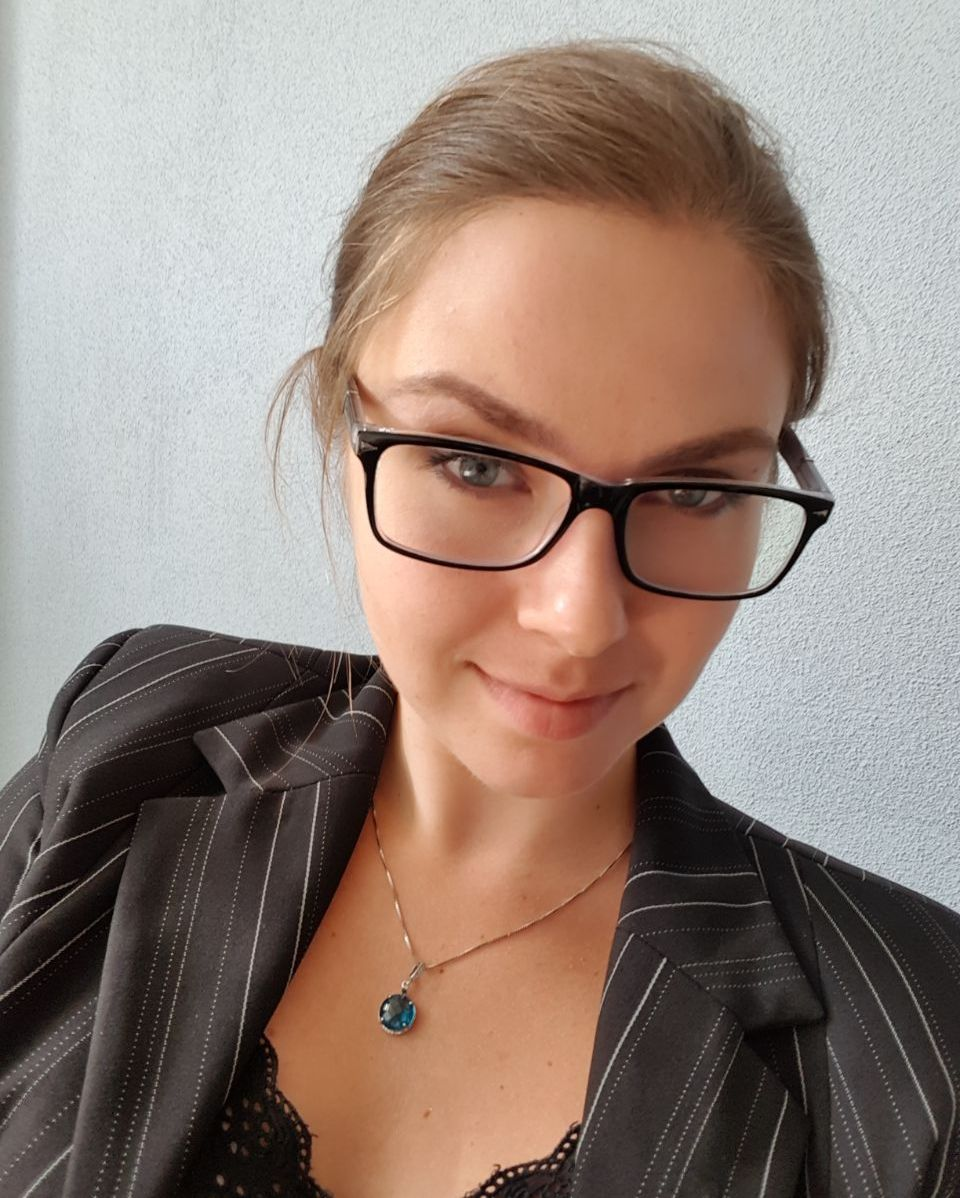
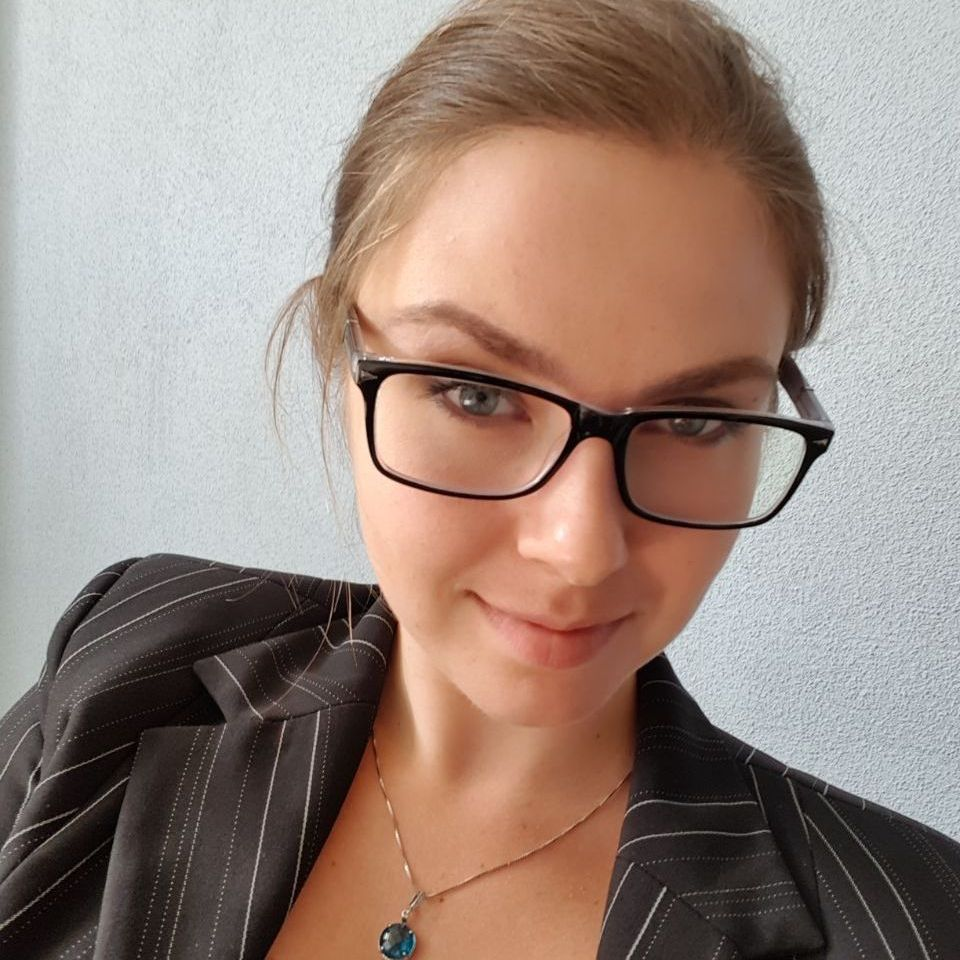
feat: add new information

diff --git a/index.html b/index.html
@@ -10,51 +10,77 @@
 <body>
     <header class="header">
         <div class="me">
-        <h1 class="title">Anastasiya Solobai</h1>
+            <h1 class="title">Anastasiya Solobai</h1>
             <nav class="contact">
-                <ul class="mycontact">
-                    <li>Phone: +375 29 277-12-20</li>
-                    <li>E-mail: nastasiasolo@gamil.com</li>
-                    <li>GitHub: catacore</li>
-                    <li>Telegram</li>
+                <ul class="mycontacts">
+                    <li>Phone:<a href="tel:+375 29 277-12-20"> +375 29 277-12-20</a></li>
+                    <li>E-mail:<a href="nastasiasolo@gamil.com">nastasiasolo@gamil.com</a></li>
+                    <li>GitHub:catacore</li>
+                    <li>Discord:catacore#2096</li>
+                    <li> <a href="https://www.google.com/maps/place/%D0%92%D1%80%D0%BE%D1%86%D0%BB%D0%B0%D0%B2/@51.1267432,16.7116858,10z/data=!3m1!4b1!4m5!3m4!1s0x470fe9c2d4b58abf:0xb70956aec205e0f5!8m2!3d51.1078852!4d17.0385376" target="_blank">Wroclaw, Poland</a></li>
                 </ul>
             </nav>
         </div>
+        <div class="image">
             <img src="./avatar.jpg"/>
+        </div>    
     </header>
     <article class="main">
-                <div class="about">
-            I have been working for 5 years as junior researcher at 
-            “Scientific-Practical Materials Research Centre of NAS of Belarus”. During working 
-            graduated from master's and postgraduate studies. Now I’m on maternity leave and trying to 
-            get new skills in another activity field.
+        <div class="column column--left">
+            <div class="about">
+                <h3 class="subtitle">ABOUT</h3>
+                <p>I have been working for 5 years as junior researcher at 
+                “Scientific-Practical Materials Research Centre of NAS of Belarus”. During working 
+                graduated from master's and postgraduate studies. Now I’m on maternity leave and trying to 
+                get new skills in another activity field.</p>
+            </div>
+            <div class="code">
+                <h3 class="subtitle">CODE</h3>
+                <pre>
+                    <code>
+function nthFibo(n) {
+    if (n == 1){
+        return 0;
+    }
+    else if (n == 2) {
+        return 1;
+    } else {
+        return nthFibo(n - 1) + nthFibo(n - 2);
+    }
+}
+                    </code>
+                </pre>
+            </div>
         </div>
-        <div class="skills">
-            <ul class="myskills">
-                <li>HTML</li>
-                <li>CSS</li>
-                <li>Git/GitHub</li>
-                <li>C++</li>
-            </ul>
-        </div>
-        <div class="Code">
-            code
-        </div>
-        <div class="Education">
-            Belarusian State University
-            Nuclear physics and technology 
-        </div>
-        <div class="Languages">
-            <ul class="mylanguages">
-                <li>Belorussian - native speaker </li>
-                <li>Russian - native speaker</li>
-                <li>English - A2 -B1</li>
-                <li>Polish - A2</li>
-            </ul>  
+        <div class="column column--right">
+            <div class="skills">
+                <h3 class="subtitle">SKILLS</h3>
+                <ul class="myskills">
+                    <li>HTML</li>
+                    <li>CSS</li>
+                    <li>Git/GitHub</li>
+                    <li>C++</li>
+                </ul>
+            </div>
+            <div class="Education">
+                <h3 class="subtitle">EDUCATION</h3>
+               <p>Belarusian State Universit. Nuclear physics and technology</p> 
+            </div>
+            <div class="LANGUAGES">
+                <h3 class="subtitle">LANGUAGES</h3>
+                <ul class="mylanguages">
+                    <li>Belorussian - native speaker </li>
+                    <li>Russian - native speaker</li>
+                    <li>English - A2 -B1</li>
+                    <li>Polish - A2</li>
+                </ul>  
+            </div>
         </div>
         </article>
     <footer class="footer">
-        RSshcool
+        <a href="https://rs.school/js/"><img src="./rs_school_js.svg" width="100" alt="RSschool_logo"></a>
+        <a href="https://github.com/catacore">GitHub @catacore</a>
+        2022
     </footer>
 </body>
 </html>

diff --git a/style.css b/style.css
@@ -1,23 +1,56 @@
+html, body {
+    margin: 0;
+    padding: 0;
+    min-height: 100%;
+}
+
+body {
+    display: flex;
+    flex-flow: column;
+    background: rgb(161,161,167);
+    background: linear-gradient(195deg, rgba(161,161,167,1) 0%, rgba(240,197,197,1) 79%);
+}
+
+img {
+    max-width: 100%;
+    border-radius: 100px; /* Радиус скругления */
+    
+    box-shadow: 0 0 4px #666; /* Параметры тени */
+  
+}
+
 .header {
     display: flex;
     flex-flow: row;
     column-gap: 35px;
-    padding: 10px 150px 0px;
     text-align: center;
-    background: rgb(209, 204, 204);
+    align-items: center;
+    justify-content: center;
+    padding: 30px 20px;
 }
 
-.header img {
-    padding: 10px;
-    height: 10%;
-    width: 10%
+.header .mycontacts {
+    text-align:left;
+}
+
+.header .image {
+    width: 150px;
+
 }
 
 .main {
-    background: rgb(209, 204, 204);
-    padding: 10px 50px 0px;
+    display: flex;
+    flex-flow: row;
 }
 
+.main .column {
+    flex: 1 50%;
+    padding-left: 30px;
+}
+ .main .column p {
+    max-width: 350px;
+ }
+
 .footer {
-    background: rgb(209, 204, 204);
+    text-align: center;
 }
